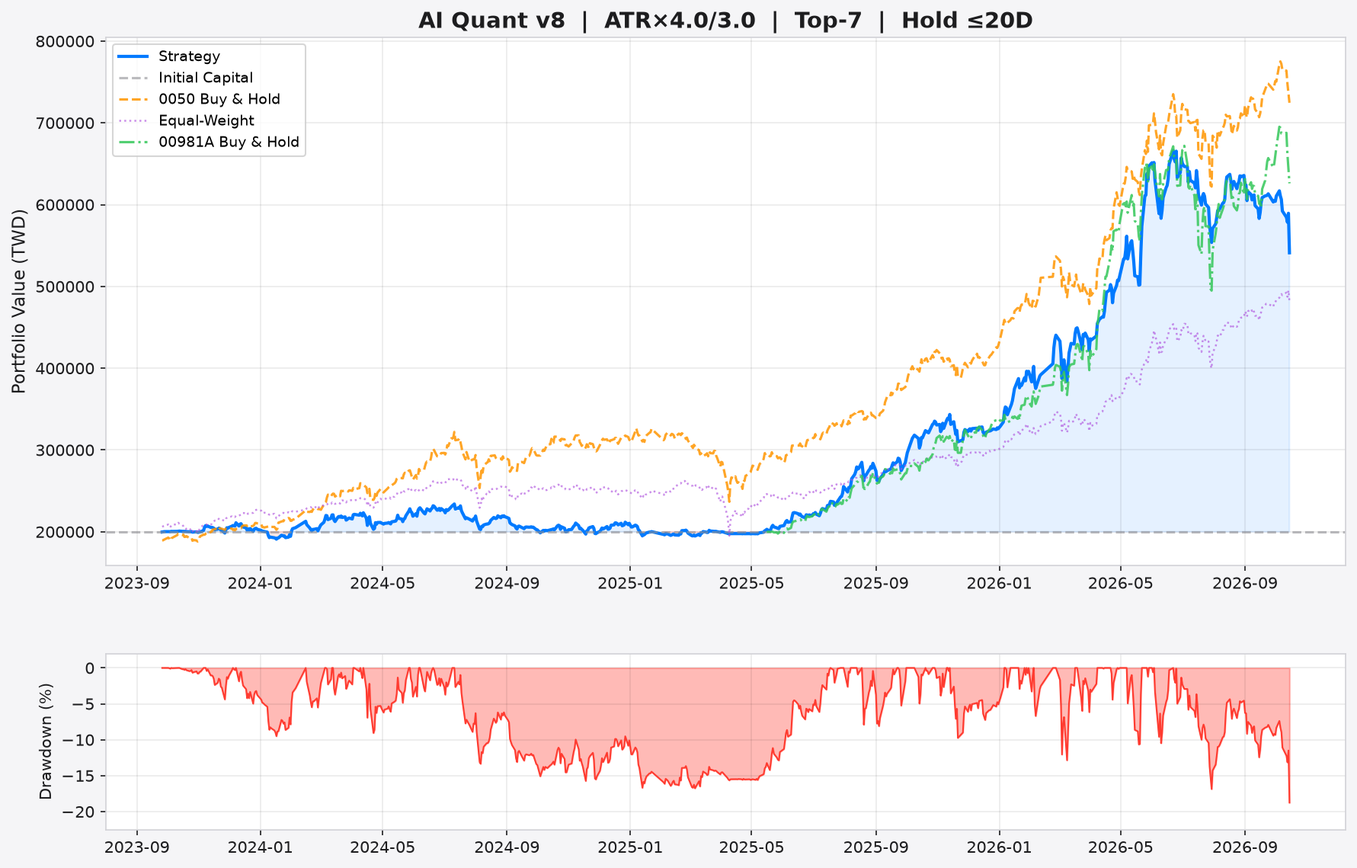
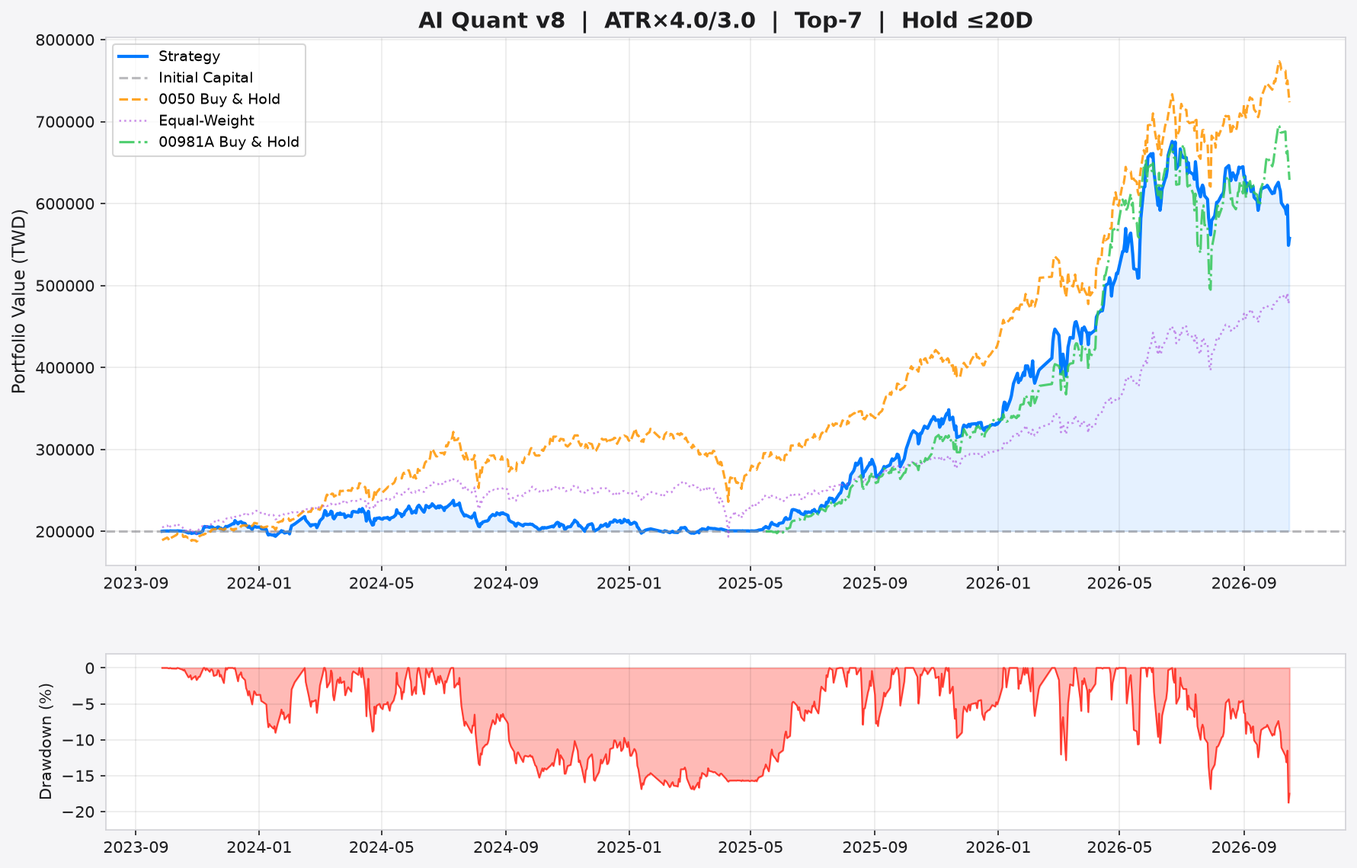
📊 AI Report v8.5 + Paper Trading (2026-10-16)

diff --git a/stock_report.html b/stock_report.html
@@ -3,7 +3,7 @@
 <head>
     <meta charset="utf-8">
     <meta name="viewport" content="width=device-width, initial-scale=1.0">
-    <title>AI 台股量化交易 v8.5 — 2026-10-15</title>
+    <title>AI 台股量化交易 v8.5 — 2026-10-16</title>
     <meta name="description" content="AI 驅動的台股量化交易系統 v8.5，完整風險報告、Benchmark 對比、OCO 智慧掛單建議">
     <script>
         (function() {
@@ -292,7 +292,7 @@
 
     <h1>🎯 AI 台股量化交易 v8.5</h1>
     <p class="subtitle">
-        Event-Driven System &nbsp;|&nbsp; 報表日期: 2026-10-15 &nbsp;|&nbsp;
+        Event-Driven System &nbsp;|&nbsp; 報表日期: 2026-10-16 &nbsp;|&nbsp;
         <span class="config-badge">🛡 ATR×4.0/3.0</span>
         <span class="config-badge">🎯 Top-7</span>
         <span class="config-badge">⏱ 最長 20 天</span>
@@ -303,23 +303,23 @@
     <div class="stats">
         <div class="stat-card">
             <div class="label">策略總報酬率</div>
-            <div class="value" style="color:#00ff00;">+170.6%</div>
+            <div class="value" style="color:#00ff00;">+178.7%</div>
         </div>
         <div class="stat-card">
             <div class="label">年化報酬率</div>
-            <div class="value" style="color:#00ff00;">+40.4%</div>
+            <div class="value" style="color:#00ff00;">+41.8%</div>
         </div>
         <div class="stat-card">
             <div class="label">年化波動率</div>
-            <div class="value">26.5%</div>
+            <div class="value">26.6%</div>
         </div>
         <div class="stat-card risk">
             <div class="label">Sharpe Ratio</div>
-            <div class="value" style="color:#00ff00;">1.42</div>
+            <div class="value" style="color:#00ff00;">1.45</div>
         </div>
         <div class="stat-card risk">
             <div class="label">Sortino Ratio</div>
-            <div class="value">2.00</div>
+            <div class="value">2.07</div>
         </div>
         <div class="stat-card risk">
             <div class="label">最大回撤</div>
@@ -327,23 +327,23 @@
         </div>
         <div class="stat-card risk">
             <div class="label">Calmar Ratio</div>
-            <div class="value">2.15</div>
+            <div class="value">2.23</div>
         </div>
         <div class="stat-card">
             <div class="label">完成交易數</div>
-            <div class="value">562</div>
+            <div class="value">565</div>
         </div>
         <div class="stat-card">
             <div class="label">勝率</div>
-            <div class="value" style="color:#00ff00;">53.6%</div>
+            <div class="value" style="color:#00ff00;">53.3%</div>
         </div>
         <div class="stat-card">
             <div class="label">Profit Factor</div>
-            <div class="value">1.56</div>
+            <div class="value">1.58</div>
         </div>
         <div class="stat-card">
             <div class="label">平均報酬/筆</div>
-            <div class="value">+2.50%</div>
+            <div class="value">+2.56%</div>
         </div>
         <div class="stat-card">
             <div class="label">平均持有天數</div>
@@ -370,23 +370,23 @@
             </tr>
         </thead>
         <tbody>
-<tr><td>6505</td><td>3.98</td><td>111.5</td><td><span style="color:#00ff00; font-weight:bold;">🟢 建議買進 #1</span></td><td><b>停利:</b> <span style="color:#00ff00">136.9</span> (+22.8%) <br><b>停損:</b> <span style="color:#ff4444">92.4</span> (-17.1%) <br><b>最晚出場:</b> 2026-11-13</td><td><span style="font-size:0.72rem; color:#888;">歷史 <b>4</b>筆 | 勝率 <b style="color:#ff4444">25%</b> | 均報酬 <b style="color:#ff4444">-3.4%</b></span></td><td><span style="font-size:0.78rem;">⚪ 無資料<br><span style="color:#888; font-weight:bold;">+0.0%</span></span></td><td><span style="font-size:0.78rem;">⚪ 中性</span></td></tr>
-<tr><td>1303</td><td>3.95</td><td>314.5</td><td><span style="color:#00ff00; font-weight:bold;">🟢 建議買進 #2</span></td><td><b>停利:</b> <span style="color:#00ff00">386.2</span> (+22.8%) <br><b>停損:</b> <span style="color:#ff4444">260.7</span> (-17.1%) <br><b>最晚出場:</b> 2026-11-13</td><td><span style="font-size:0.72rem; color:#888;">歷史 <b>13</b>筆 | 勝率 <b style="color:#00ff00">77%</b> | 均報酬 <b style="color:#00ff00">+8.0%</b></span></td><td><span style="font-size:0.78rem;">⚪ 無資料<br><span style="color:#888; font-weight:bold;">+0.0%</span></span></td><td><span style="font-size:0.78rem;">⚪ 中性</span></td></tr>
-<tr><td>1301</td><td>3.87</td><td>81.7</td><td><span style="color:#00ff00; font-weight:bold;">🟢 建議買進 #3</span></td><td><b>停利:</b> <span style="color:#00ff00">96.4</span> (+17.9%) <br><b>停損:</b> <span style="color:#ff4444">70.7</span> (-13.5%) <br><b>最晚出場:</b> 2026-11-13</td><td><span style="font-size:0.72rem; color:#888;">歷史 <b>2</b>筆 | 勝率 <b style="color:#ff4444">0%</b> | 均報酬 <b style="color:#ff4444">-10.5%</b></span></td><td><span style="font-size:0.78rem;">🟡 小買<br><span style="color:#ffab00; font-weight:bold;">+1.2%</span></span></td><td><span style="font-size:0.78rem;">⚪ 中性</span></td></tr>
-<tr><td>3443</td><td>3.75</td><td>7670.0</td><td><span style="color:#00ff00; font-weight:bold;">🟢 建議買進 #4</span></td><td><b>停利:</b> <span style="color:#00ff00">9567.0</span> (+24.7%) <br><b>停損:</b> <span style="color:#ff4444">6247.2</span> (-18.5%) <br><b>最晚出場:</b> 2026-11-13</td><td><span style="font-size:0.72rem; color:#888;">歷史 <b>10</b>筆 | 勝率 <b style="color:#00ff00">50%</b> | 均報酬 <b style="color:#00ff00">+0.8%</b></span></td><td><span style="font-size:0.78rem;">⚪ 無資料<br><span style="color:#888; font-weight:bold;">+0.0%</span></span></td><td><span style="font-size:0.78rem;">⚪ 中性</span></td></tr>
-<tr><td>3707O</td><td>3.75</td><td>77.0</td><td><span style="color:#00ff00; font-weight:bold;">🟢 建議買進 #5</span></td><td><b>停利:</b> <span style="color:#00ff00">96.6</span> (+25.5%) <br><b>停損:</b> <span style="color:#ff4444">62.3</span> (-19.1%) <br><b>最晚出場:</b> 2026-11-13</td><td><span style="font-size:0.72rem; color:#888;">歷史 <b>4</b>筆 | 勝率 <b style="color:#00ff00">50%</b> | 均報酬 <b style="color:#00ff00">+3.4%</b></span></td><td><span style="font-size:0.78rem;">⚪ 無資料<br><span style="color:#888; font-weight:bold;">+0.0%</span></span></td><td><span style="font-size:0.78rem;">⚪ 中性</span></td></tr>
-<tr><td>3044</td><td>3.63</td><td>586.0</td><td><span style="color:#00ff00; font-weight:bold;">🟢 建議買進 #6</span></td><td><b>停利:</b> <span style="color:#00ff00">669.6</span> (+14.3%) <br><b>停損:</b> <span style="color:#ff4444">523.3</span> (-10.7%) <br><b>最晚出場:</b> 2026-11-13</td><td><span style="font-size:0.72rem; color:#888;">歷史 <b>4</b>筆 | 勝率 <b style="color:#00ff00">75%</b> | 均報酬 <b style="color:#00ff00">+4.4%</b></span></td><td><span style="font-size:0.78rem;">🟡 小買<br><span style="color:#ffab00; font-weight:bold;">+0.7%</span></span></td><td><span style="font-size:0.78rem;">⚪ 中性</span></td></tr>
-<tr><td>2368</td><td>3.62</td><td>1190.0</td><td><span style="color:#00ff00; font-weight:bold;">🟢 建議買進 #7</span></td><td><b>停利:</b> <span style="color:#00ff00">1500.6</span> (+26.1%) <br><b>停損:</b> <span style="color:#ff4444">957.0</span> (-19.6%) <br><b>最晚出場:</b> 2026-11-13</td><td><span style="font-size:0.72rem; color:#888;">歷史 <b>12</b>筆 | 勝率 <b style="color:#00ff00">50%</b> | 均報酬 <b style="color:#00ff00">+2.4%</b></span></td><td><span style="font-size:0.78rem;">🟠 小賣<br><span style="color:#ffab00; font-weight:bold;">-1.8%</span></span></td><td><span style="font-size:0.78rem;">⚪ 中性</span></td></tr>
-<tr style="opacity:0.6"><td>1326</td><td>3.48</td><td>77.0</td><td><span style="color:#ffab00">🟡 候選 (超出 Top-K)</span></td><td>-</td><td><span style="font-size:0.72rem; color:#888;">勝率 <b style="color:#ff4444">0%</b></span></td><td><span style="font-size:0.72rem;">🟡 小買<br><span style="color:#888">+0.7%</span></span></td><td><span style="font-size:0.72rem;">⚪</span></td></tr>
-<tr style="opacity:0.6"><td>1101</td><td>3.18</td><td>26.8</td><td><span style="color:#ffab00">🟡 候選 (超出 Top-K)</span></td><td>-</td><td><span style="font-size:0.72rem; color:#555;">-</span></td><td><span style="font-size:0.72rem;">⚪ 無資料<br><span style="color:#888">+0.0%</span></span></td><td><span style="font-size:0.72rem;">⚪</span></td></tr>
-<tr style="opacity:0.6"><td>6415</td><td>3.18</td><td>466.5</td><td><span style="color:#ffab00">🟡 候選 (超出 Top-K)</span></td><td>-</td><td><span style="font-size:0.72rem; color:#888;">勝率 <b style="color:#ff4444">45%</b></span></td><td><span style="font-size:0.72rem;">⚪ 無資料<br><span style="color:#888">+0.0%</span></span></td><td><span style="font-size:0.72rem;">⚪</span></td></tr>
-<tr style="opacity:0.6"><td>3533</td><td>3.15</td><td>1815.0</td><td><span style="color:#ffab00">🟡 候選 (超出 Top-K)</span></td><td>-</td><td><span style="font-size:0.72rem; color:#888;">勝率 <b style="color:#00ff00">50%</b></span></td><td><span style="font-size:0.72rem;">⚪ 無資料<br><span style="color:#888">+0.0%</span></span></td><td><span style="font-size:0.72rem;">⚪</span></td></tr>
-<tr style="opacity:0.6"><td>4938</td><td>3.02</td><td>98.1</td><td><span style="color:#ffab00">🟡 候選 (超出 Top-K)</span></td><td>-</td><td><span style="font-size:0.72rem; color:#555;">-</span></td><td><span style="font-size:0.72rem;">🟡 小買<br><span style="color:#888">+0.7%</span></span></td><td><span style="font-size:0.72rem;">⚪</span></td></tr>
-<tr style="opacity:0.4"><td>2404</td><td>2.63</td><td>1105.0</td><td><span style="color:#aaaaaa">⚪ 觀望 (低於 MA)</span></td><td>-</td><td>-</td><td style="color:#555">-</td><td style="color:#555">-</td></tr>
-<tr style="opacity:0.4"><td>2327</td><td>2.15</td><td>573.0</td><td><span style="color:#aaaaaa">⚪ 觀望 (低於 MA)</span></td><td>-</td><td>-</td><td style="color:#555">-</td><td style="color:#555">-</td></tr>
-<tr style="opacity:0.4"><td>2330</td><td>1.90</td><td>2440.0</td><td><span style="color:#aaaaaa">⚪ 觀望 (評分不足)</span></td><td>-</td><td>-</td><td style="color:#555">-</td><td style="color:#555">-</td></tr>
-<tr style="opacity:0.4"><td>3034</td><td>1.85</td><td>565.0</td><td><span style="color:#aaaaaa">⚪ 觀望 (評分不足)</span></td><td>-</td><td>-</td><td style="color:#555">-</td><td style="color:#555">-</td></tr>
-<tr style="opacity:0.4"><td>3661</td><td>1.83</td><td>3705.0</td><td><span style="color:#aaaaaa">⚪ 觀望 (評分不足)</span></td><td>-</td><td>-</td><td style="color:#555">-</td><td style="color:#555">-</td></tr>
+<tr><td>6505</td><td>4.00</td><td>122.5</td><td><span style="color:#00ff00; font-weight:bold;">🟢 建議買進 #1</span></td><td><b>停利:</b> <span style="color:#00ff00">149.5</span> (+22.0%) <br><b>停損:</b> <span style="color:#ff4444">102.3</span> (-16.5%) <br><b>最晚出場:</b> 2026-11-16</td><td><span style="font-size:0.72rem; color:#888;">歷史 <b>4</b>筆 | 勝率 <b style="color:#ff4444">25%</b> | 均報酬 <b style="color:#ff4444">-3.4%</b></span></td><td><span style="font-size:0.78rem;">⚪ 無資料<br><span style="color:#888; font-weight:bold;">+0.0%</span></span></td><td><span style="font-size:0.78rem;">⚪ 中性</span></td></tr>
+<tr><td>1303</td><td>3.93</td><td>307.0</td><td><span style="color:#00ff00; font-weight:bold;">🟢 建議買進 #2</span></td><td><b>停利:</b> <span style="color:#00ff00">379.0</span> (+23.5%) <br><b>停損:</b> <span style="color:#ff4444">253.0</span> (-17.6%) <br><b>最晚出場:</b> 2026-11-16</td><td><span style="font-size:0.72rem; color:#888;">歷史 <b>13</b>筆 | 勝率 <b style="color:#00ff00">77%</b> | 均報酬 <b style="color:#00ff00">+8.0%</b></span></td><td><span style="font-size:0.78rem;">⚪ 無資料<br><span style="color:#888; font-weight:bold;">+0.0%</span></span></td><td><span style="font-size:0.78rem;">⚪ 中性</span></td></tr>
+<tr><td>1301</td><td>3.87</td><td>82.1</td><td><span style="color:#00ff00; font-weight:bold;">🟢 建議買進 #3</span></td><td><b>停利:</b> <span style="color:#00ff00">97.2</span> (+18.4%) <br><b>停損:</b> <span style="color:#ff4444">70.8</span> (-13.8%) <br><b>最晚出場:</b> 2026-11-16</td><td><span style="font-size:0.72rem; color:#888;">歷史 <b>2</b>筆 | 勝率 <b style="color:#ff4444">0%</b> | 均報酬 <b style="color:#ff4444">-10.5%</b></span></td><td><span style="font-size:0.78rem;">🟡 小買<br><span style="color:#ffab00; font-weight:bold;">+1.2%</span></span></td><td><span style="font-size:0.78rem;">⚪ 中性</span></td></tr>
+<tr><td>2368</td><td>3.72</td><td>1245.0</td><td><span style="color:#00ff00; font-weight:bold;">🟢 建議買進 #4</span></td><td><b>停利:</b> <span style="color:#00ff00">1566.8</span> (+25.8%) <br><b>停損:</b> <span style="color:#ff4444">1003.6</span> (-19.4%) <br><b>最晚出場:</b> 2026-11-16</td><td><span style="font-size:0.72rem; color:#888;">歷史 <b>13</b>筆 | 勝率 <b style="color:#ff4444">46%</b> | 均報酬 <b style="color:#00ff00">+0.7%</b></span></td><td><span style="font-size:0.78rem;">🟠 小賣<br><span style="color:#ffab00; font-weight:bold;">-1.8%</span></span></td><td><span style="font-size:0.78rem;">⚪ 中性</span></td></tr>
+<tr><td>3707O</td><td>3.72</td><td>77.6</td><td><span style="color:#00ff00; font-weight:bold;">🟢 建議買進 #5</span></td><td><b>停利:</b> <span style="color:#00ff00">97.1</span> (+25.1%) <br><b>停損:</b> <span style="color:#ff4444">63.0</span> (-18.8%) <br><b>最晚出場:</b> 2026-11-16</td><td><span style="font-size:0.72rem; color:#888;">歷史 <b>4</b>筆 | 勝率 <b style="color:#00ff00">50%</b> | 均報酬 <b style="color:#00ff00">+3.4%</b></span></td><td><span style="font-size:0.78rem;">⚪ 無資料<br><span style="color:#888; font-weight:bold;">+0.0%</span></span></td><td><span style="font-size:0.78rem;">⚪ 中性</span></td></tr>
+<tr><td>3443</td><td>3.70</td><td>7480.0</td><td><span style="color:#00ff00; font-weight:bold;">🟢 建議買進 #6</span></td><td><b>停利:</b> <span style="color:#00ff00">9434.0</span> (+26.1%) <br><b>停損:</b> <span style="color:#ff4444">6014.5</span> (-19.6%) <br><b>最晚出場:</b> 2026-11-16</td><td><span style="font-size:0.72rem; color:#888;">歷史 <b>10</b>筆 | 勝率 <b style="color:#00ff00">50%</b> | 均報酬 <b style="color:#00ff00">+1.2%</b></span></td><td><span style="font-size:0.78rem;">⚪ 無資料<br><span style="color:#888; font-weight:bold;">+0.0%</span></span></td><td><span style="font-size:0.78rem;">⚪ 中性</span></td></tr>
+<tr><td>1326</td><td>3.55</td><td>78.7</td><td><span style="color:#00ff00; font-weight:bold;">🟢 建議買進 #7</span></td><td><b>停利:</b> <span style="color:#00ff00">93.4</span> (+18.7%) <br><b>停損:</b> <span style="color:#ff4444">67.7</span> (-14.0%) <br><b>最晚出場:</b> 2026-11-16</td><td><span style="font-size:0.72rem; color:#888;">歷史 <b>5</b>筆 | 勝率 <b style="color:#ff4444">0%</b> | 均報酬 <b style="color:#ff4444">-8.8%</b></span></td><td><span style="font-size:0.78rem;">🟡 小買<br><span style="color:#ffab00; font-weight:bold;">+0.7%</span></span></td><td><span style="font-size:0.78rem;">⚪ 中性</span></td></tr>
+<tr style="opacity:0.6"><td>3044</td><td>3.53</td><td>584.0</td><td><span style="color:#ffab00">🟡 候選 (超出 Top-K)</span></td><td>-</td><td><span style="font-size:0.72rem; color:#888;">勝率 <b style="color:#00ff00">60%</b></span></td><td><span style="font-size:0.72rem;">🟡 小買<br><span style="color:#888">+0.7%</span></span></td><td><span style="font-size:0.72rem;">⚪</span></td></tr>
+<tr style="opacity:0.6"><td>6415</td><td>3.45</td><td>489.0</td><td><span style="color:#ffab00">🟡 候選 (超出 Top-K)</span></td><td>-</td><td><span style="font-size:0.72rem; color:#888;">勝率 <b style="color:#ff4444">40%</b></span></td><td><span style="font-size:0.72rem;">⚪ 無資料<br><span style="color:#888">+0.0%</span></span></td><td><span style="font-size:0.72rem;">⚪</span></td></tr>
+<tr style="opacity:0.6"><td>4938</td><td>3.28</td><td>102.0</td><td><span style="color:#ffab00">🟡 候選 (超出 Top-K)</span></td><td>-</td><td><span style="font-size:0.72rem; color:#555;">-</span></td><td><span style="font-size:0.72rem;">🟡 小買<br><span style="color:#888">+0.7%</span></span></td><td><span style="font-size:0.72rem;">⚪</span></td></tr>
+<tr style="opacity:0.6"><td>1101</td><td>3.13</td><td>27.3</td><td><span style="color:#ffab00">🟡 候選 (超出 Top-K)</span></td><td>-</td><td><span style="font-size:0.72rem; color:#555;">-</span></td><td><span style="font-size:0.72rem;">⚪ 無資料<br><span style="color:#888">+0.0%</span></span></td><td><span style="font-size:0.72rem;">⚪</span></td></tr>
+<tr style="opacity:0.6"><td>2603</td><td>3.13</td><td>265.5</td><td><span style="color:#ffab00">🟡 候選 (超出 Top-K)</span></td><td>-</td><td><span style="font-size:0.72rem; color:#888;">勝率 <b style="color:#ff4444">27%</b></span></td><td><span style="font-size:0.72rem;">🟡 小買<br><span style="color:#888">+1.6%</span></span></td><td><span style="font-size:0.72rem;">⚪</span></td></tr>
+<tr style="opacity:0.4"><td>3661</td><td>2.35</td><td>3685.0</td><td><span style="color:#aaaaaa">⚪ 觀望 (低於 MA)</span></td><td>-</td><td>-</td><td style="color:#555">-</td><td style="color:#555">-</td></tr>
+<tr style="opacity:0.4"><td>2404</td><td>2.13</td><td>1110.0</td><td><span style="color:#aaaaaa">⚪ 觀望 (低於 MA)</span></td><td>-</td><td>-</td><td style="color:#555">-</td><td style="color:#555">-</td></tr>
+<tr style="opacity:0.4"><td>2345</td><td>2.00</td><td>1980.0</td><td><span style="color:#aaaaaa">⚪ 觀望 (低於 MA)</span></td><td>-</td><td>-</td><td style="color:#555">-</td><td style="color:#555">-</td></tr>
+<tr style="opacity:0.4"><td>2886</td><td>1.90</td><td>53.7</td><td><span style="color:#aaaaaa">⚪ 觀望 (評分不足)</span></td><td>-</td><td>-</td><td style="color:#555">-</td><td style="color:#555">-</td></tr>
+<tr style="opacity:0.4"><td>2883</td><td>1.77</td><td>39.1</td><td><span style="color:#aaaaaa">⚪ 觀望 (評分不足)</span></td><td>-</td><td>-</td><td style="color:#555">-</td><td style="color:#555">-</td></tr>
 
         </tbody>
     </table>
@@ -461,7 +461,7 @@
     <div class="stats">
         <div class="stat-card benchmark">
             <div class="label">0050 年化報酬</div>
-            <div class="value">+50.1%</div>
+            <div class="value">+50.0%</div>
         </div>
         <div class="stat-card benchmark">
             <div class="label">0050 最大回撤</div>
@@ -473,14 +473,14 @@
         </div>
         <div class="stat-card" style="border-left-color:#ff4444">
             <div class="label">超額年化報酬 (α)</div>
-            <div class="value" style="color:#ff4444">-9.7%</div>
+            <div class="value" style="color:#ff4444">-8.2%</div>
         </div>
     </div>
 
     <div class="stats">
         <div class="stat-card benchmark">
             <div class="label">00981A 年化報酬</div>
-            <div class="value">+129.6%</div>
+            <div class="value">+129.8%</div>
         </div>
         <div class="stat-card benchmark">
             <div class="label">00981A 最大回撤</div>
@@ -488,11 +488,11 @@
         </div>
         <div class="stat-card benchmark">
             <div class="label">00981A Sharpe</div>
-            <div class="value">2.52</div>
+            <div class="value">2.53</div>
         </div>
         <div class="stat-card" style="border-left-color:#ff4444">
             <div class="label">超額 vs 00981A (共存期)</div>
-            <div class="value" style="color:#ff4444">-46.5%</div>
+            <div class="value" style="color:#ff4444">-43.8%</div>
         </div>
     </div>
     <img src="backtest_chart.png" alt="AI Quantitative Backtest Equity Curve with Benchmark">
@@ -507,19 +507,19 @@
         </div>
         <div class="stat-card benchmark">
             <div class="label">0050 近 5 日</div>
-            <div class="value" style="color:#ff4444">-6.2%</div>
+            <div class="value" style="color:#ff4444">-5.2%</div>
         </div>
         <div class="stat-card benchmark">
             <div class="label">0050 近 20 日</div>
-            <div class="value" style="color:#00ff00">+1.9%</div>
+            <div class="value" style="color:#00ff00">+2.6%</div>
         </div>
         <div class="stat-card benchmark">
             <div class="label">0050 近 60 日</div>
-            <div class="value" style="color:#00ff00">+10.4%</div>
+            <div class="value" style="color:#00ff00">+6.3%</div>
         </div>
         <div class="stat-card risk">
             <div class="label">市場波動率 (20D)</div>
-            <div class="value">20.8%</div>
+            <div class="value">21.6%</div>
         </div>
     </div>
 
@@ -529,22 +529,22 @@
     <div class="stats">
         <div class="stat-card risk">
             <div class="label">目前回撤</div>
-            <div class="value" style="color:#ff4444">-18.8%</div>
+            <div class="value" style="color:#ff4444">-17.5%</div>
         </div>
         <div class="stat-card">
             <div class="label">權益最高點</div>
-            <div class="value">666,065</div>
+            <div class="value">675,753</div>
         </div>
         <div class="stat-card">
             <div class="label">歷史回撤次數</div>
-            <div class="value">31</div>
+            <div class="value">34</div>
         </div>
     </div>
     <table>
         <thead><tr><th>#</th><th>開始日</th><th>恢復日</th><th>最大深度</th><th>持續天數</th></tr></thead>
         <tbody>
-<tr><td>#1</td><td>2026-06-26</td><td>2026-10-15</td><td style="color:#ff4444; font-weight:bold">-18.8%</td><td>111 天</td></tr>
-<tr><td>#2</td><td>2024-07-12</td><td>2025-07-17</td><td style="color:#ff4444; font-weight:bold">-16.8%</td><td>370 天</td></tr>
+<tr><td>#1</td><td>2026-06-26</td><td>2026-10-16</td><td style="color:#ff4444; font-weight:bold">-18.8%</td><td>112 天</td></tr>
+<tr><td>#2</td><td>2024-07-12</td><td>2025-07-17</td><td style="color:#ff4444; font-weight:bold">-16.9%</td><td>370 天</td></tr>
 <tr><td>#3</td><td>2026-03-02</td><td>2026-03-17</td><td style="color:#ff4444; font-weight:bold">-12.9%</td><td>15 天</td></tr>
 <tr><td>#4</td><td>2026-05-08</td><td>2026-05-22</td><td style="color:#ff4444; font-weight:bold">-10.7%</td><td>14 天</td></tr>
 <tr><td>#5</td><td>2026-06-04</td><td>2026-06-18</td><td style="color:#ff4444; font-weight:bold">-10.5%</td><td>14 天</td></tr>
@@ -558,15 +558,15 @@
     <div class="stats">
         <div class="stat-card" style="border-left-color:#ff4444">
             <div class="label">近 60 日 Sharpe</div>
-            <div class="value" style="color:#ff4444">-1.40</div>
+            <div class="value" style="color:#ff4444">-1.44</div>
         </div>
         <div class="stat-card">
             <div class="label">歷史平均 Sharpe</div>
-            <div class="value">1.46</div>
+            <div class="value">1.48</div>
         </div>
         <div class="stat-card risk">
             <div class="label">歷史最低 Sharpe</div>
-            <div class="value">-2.99</div>
+            <div class="value">-3.09</div>
         </div>
         <div class="stat-card">
             <div class="label">歷史最高 Sharpe</div>
@@ -588,7 +588,7 @@
         </div>
         <div class="stat-card">
             <div class="label">近 5 筆走勢</div>
-            <div class="value" style="font-size:1.2rem">🟢 🟢 🔴 🔴 🔴 </div>
+            <div class="value" style="font-size:1.2rem">🟢 🔴 🔴 🔴 🔴 </div>
         </div>
     </div>
 
@@ -596,9 +596,9 @@
     <table>
         <thead><tr><th>出場原因</th><th>次數</th><th>平均報酬</th></tr></thead>
         <tbody>
-<tr><td>🟢 停利</td><td>209 筆</td><td style="color:#00ff00">+16.35%</td></tr>
-<tr><td>⚪ 時間到期</td><td>209 筆</td><td style="color:#ff4444">-0.73%</td></tr>
-<tr><td>🔴 停損</td><td>144 筆</td><td style="color:#ff4444">-12.91%</td></tr>
+<tr><td>🟢 停利</td><td>213 筆</td><td style="color:#00ff00">+16.33%</td></tr>
+<tr><td>⚪ 時間到期</td><td>207 筆</td><td style="color:#ff4444">-0.86%</td></tr>
+<tr><td>🔴 停損</td><td>145 筆</td><td style="color:#ff4444">-12.79%</td></tr>
 
         </tbody>
     </table>
@@ -608,14 +608,14 @@
 
     <table>
         <thead><tr><th>報酬區間</th><th>筆數</th><th>佔比</th><th>分布</th></tr></thead>
-        <tbody><tr><td>< -15%</td><td>35</td><td>6.2%</td><td><div style="background:#ff4444; width:18.683274021352315%; height:14px; border-radius:3px; opacity:0.6"></div></td></tr>
-<tr><td>-15~-10%</td><td>88</td><td>15.7%</td><td><div style="background:#ff4444; width:46.97508896797153%; height:14px; border-radius:3px; opacity:0.6"></div></td></tr>
-<tr><td>-10~-5%</td><td>75</td><td>13.3%</td><td><div style="background:#ff4444; width:40.0355871886121%; height:14px; border-radius:3px; opacity:0.6"></div></td></tr>
-<tr><td>-5~0%</td><td>63</td><td>11.2%</td><td><div style="background:#ff4444; width:33.629893238434164%; height:14px; border-radius:3px; opacity:0.6"></div></td></tr>
-<tr><td>0~5%</td><td>56</td><td>10.0%</td><td><div style="background:#00ff00; width:29.8932384341637%; height:14px; border-radius:3px; opacity:0.6"></div></td></tr>
-<tr><td>5~10%</td><td>39</td><td>6.9%</td><td><div style="background:#00ff00; width:20.81850533807829%; height:14px; border-radius:3px; opacity:0.6"></div></td></tr>
-<tr><td>10~20%</td><td>157</td><td>27.9%</td><td><div style="background:#00ff00; width:83.80782918149465%; height:14px; border-radius:3px; opacity:0.6"></div></td></tr>
-<tr><td>> 20%</td><td>49</td><td>8.7%</td><td><div style="background:#00ff00; width:26.156583629893237%; height:14px; border-radius:3px; opacity:0.6"></div></td></tr>
+        <tbody><tr><td>< -15%</td><td>34</td><td>6.0%</td><td><div style="background:#ff4444; width:18.05309734513274%; height:14px; border-radius:3px; opacity:0.6"></div></td></tr>
+<tr><td>-15~-10%</td><td>87</td><td>15.4%</td><td><div style="background:#ff4444; width:46.19469026548673%; height:14px; border-radius:3px; opacity:0.6"></div></td></tr>
+<tr><td>-10~-5%</td><td>83</td><td>14.7%</td><td><div style="background:#ff4444; width:44.07079646017699%; height:14px; border-radius:3px; opacity:0.6"></div></td></tr>
+<tr><td>-5~0%</td><td>60</td><td>10.6%</td><td><div style="background:#ff4444; width:31.85840707964602%; height:14px; border-radius:3px; opacity:0.6"></div></td></tr>
+<tr><td>0~5%</td><td>51</td><td>9.0%</td><td><div style="background:#00ff00; width:27.07964601769912%; height:14px; border-radius:3px; opacity:0.6"></div></td></tr>
+<tr><td>5~10%</td><td>41</td><td>7.3%</td><td><div style="background:#00ff00; width:21.769911504424776%; height:14px; border-radius:3px; opacity:0.6"></div></td></tr>
+<tr><td>10~20%</td><td>159</td><td>28.1%</td><td><div style="background:#00ff00; width:84.42477876106193%; height:14px; border-radius:3px; opacity:0.6"></div></td></tr>
+<tr><td>> 20%</td><td>50</td><td>8.8%</td><td><div style="background:#00ff00; width:26.54867256637168%; height:14px; border-radius:3px; opacity:0.6"></div></td></tr>
 </tbody>
     </table>
 
@@ -625,26 +625,26 @@
     <h3 style="color:#00e5ff; margin-top:16px">🏆 Top 10 貢獻股</h3>
     <table>
         <thead><tr><th>股票</th><th>交易數</th><th>勝率</th><th>平均報酬</th><th>總貢獻</th></tr></thead>
-        <tbody><tr><td><b>3017</b></td><td>18</td><td style="color:#00ff00">83%</td><td style="color:#00ff00">+9.4%</td><td style="color:#00ff00; font-weight:bold">+169.7%</td></tr>
-<tr><td><b>2383</b></td><td>14</td><td style="color:#00ff00">79%</td><td style="color:#00ff00">+12.0%</td><td style="color:#00ff00; font-weight:bold">+168.1%</td></tr>
+        <tbody><tr><td><b>2383</b></td><td>15</td><td style="color:#00ff00">80%</td><td style="color:#00ff00">+12.2%</td><td style="color:#00ff00; font-weight:bold">+182.2%</td></tr>
 <tr><td><b>2344</b></td><td>14</td><td style="color:#00ff00">79%</td><td style="color:#00ff00">+11.1%</td><td style="color:#00ff00; font-weight:bold">+155.0%</td></tr>
+<tr><td><b>3017</b></td><td>17</td><td style="color:#00ff00">82%</td><td style="color:#00ff00">+9.0%</td><td style="color:#00ff00; font-weight:bold">+153.7%</td></tr>
 <tr><td><b>2408</b></td><td>17</td><td style="color:#00ff00">71%</td><td style="color:#00ff00">+7.9%</td><td style="color:#00ff00; font-weight:bold">+134.0%</td></tr>
 <tr><td><b>6770</b></td><td>10</td><td style="color:#00ff00">80%</td><td style="color:#00ff00">+10.7%</td><td style="color:#00ff00; font-weight:bold">+106.5%</td></tr>
 <tr><td><b>1303</b></td><td>13</td><td style="color:#00ff00">77%</td><td style="color:#00ff00">+8.0%</td><td style="color:#00ff00; font-weight:bold">+104.1%</td></tr>
-<tr><td><b>3036</b></td><td>11</td><td style="color:#00ff00">73%</td><td style="color:#00ff00">+8.6%</td><td style="color:#00ff00; font-weight:bold">+94.6%</td></tr>
 <tr><td><b>2327</b></td><td>11</td><td style="color:#00ff00">73%</td><td style="color:#00ff00">+7.9%</td><td style="color:#00ff00; font-weight:bold">+87.3%</td></tr>
-<tr><td><b>3037</b></td><td>12</td><td style="color:#00ff00">58%</td><td style="color:#00ff00">+5.9%</td><td style="color:#00ff00; font-weight:bold">+70.3%</td></tr>
-<tr><td><b>2360</b></td><td>9</td><td style="color:#00ff00">67%</td><td style="color:#00ff00">+7.5%</td><td style="color:#00ff00; font-weight:bold">+67.1%</td></tr>
+<tr><td><b>3036</b></td><td>10</td><td style="color:#00ff00">70%</td><td style="color:#00ff00">+7.9%</td><td style="color:#00ff00; font-weight:bold">+79.1%</td></tr>
+<tr><td><b>1519</b></td><td>15</td><td style="color:#00ff00">53%</td><td style="color:#00ff00">+4.5%</td><td style="color:#00ff00; font-weight:bold">+67.8%</td></tr>
+<tr><td><b>5274O</b></td><td>15</td><td style="color:#00ff00">67%</td><td style="color:#00ff00">+4.4%</td><td style="color:#00ff00; font-weight:bold">+65.4%</td></tr>
 </tbody>
     </table>
     <h3 style="color:#ff4444; margin-top:16px">📉 Bottom 5 虧損股</h3>
     <table>
         <thead><tr><th>股票</th><th>交易數</th><th>勝率</th><th>平均報酬</th><th>總貢獻</th></tr></thead>
         <tbody><tr style="opacity:0.7"><td><b>2634</b></td><td>6</td><td style="color:#ff4444">33%</td><td style="color:#ff4444">-5.1%</td><td style="color:#ff4444; font-weight:bold">-30.9%</td></tr>
-<tr style="opacity:0.7"><td><b>2382</b></td><td>3</td><td style="color:#ff4444">0%</td><td style="color:#ff4444">-10.5%</td><td style="color:#ff4444; font-weight:bold">-31.4%</td></tr>
-<tr style="opacity:0.7"><td><b>1326</b></td><td>4</td><td style="color:#ff4444">0%</td><td style="color:#ff4444">-7.9%</td><td style="color:#ff4444; font-weight:bold">-31.7%</td></tr>
+<tr style="opacity:0.7"><td><b>2382</b></td><td>3</td><td style="color:#ff4444">0%</td><td style="color:#ff4444">-10.5%</td><td style="color:#ff4444; font-weight:bold">-31.6%</td></tr>
 <tr style="opacity:0.7"><td><b>2605</b></td><td>3</td><td style="color:#ff4444">0%</td><td style="color:#ff4444">-10.7%</td><td style="color:#ff4444; font-weight:bold">-32.1%</td></tr>
-<tr style="opacity:0.7"><td><b>2603</b></td><td>11</td><td style="color:#ff4444">18%</td><td style="color:#ff4444">-5.4%</td><td style="color:#ff4444; font-weight:bold">-59.2%</td></tr>
+<tr style="opacity:0.7"><td><b>2603</b></td><td>11</td><td style="color:#ff4444">27%</td><td style="color:#ff4444">-3.3%</td><td style="color:#ff4444; font-weight:bold">-35.9%</td></tr>
+<tr style="opacity:0.7"><td><b>1326</b></td><td>5</td><td style="color:#ff4444">0%</td><td style="color:#ff4444">-8.8%</td><td style="color:#ff4444; font-weight:bold">-44.2%</td></tr>
 </tbody>
     </table>
 
@@ -658,6 +658,7 @@
             </tr>
         </thead>
         <tbody>
+<tr><td>1326</td><td>2026-10-15</td><td>2026-10-16</td><td>85.7</td><td>75.5</td><td>🔴 停損</td><td>1天</td><td style="color:#ff4444; font-weight:bold;">-12.5%</td></tr>
 <tr><td>2404</td><td>2026-10-01</td><td>2026-10-15</td><td>1281.3</td><td>1111.3</td><td>🔴 停損</td><td>9天</td><td style="color:#ff4444; font-weight:bold;">-13.9%</td></tr>
 <tr><td>2303</td><td>2026-09-24</td><td>2026-10-15</td><td>157.2</td><td>134.5</td><td>🔴 停損</td><td>12天</td><td style="color:#ff4444; font-weight:bold;">-15.0%</td></tr>
 <tr><td>2454</td><td>2026-09-24</td><td>2026-10-15</td><td>5110.1</td><td>4195.0</td><td>🔴 停損</td><td>12天</td><td style="color:#ff4444; font-weight:bold;">-18.5%</td></tr>
@@ -677,7 +678,6 @@
 <tr><td>2408</td><td>2026-08-06</td><td>2026-09-03</td><td>441.4</td><td>477.5</td><td>⚪ 時間到期</td><td>20天</td><td style="color:#00ff00; font-weight:bold;">+7.4%</td></tr>
 <tr><td>3231</td><td>2026-08-05</td><td>2026-09-02</td><td>198.2</td><td>185.5</td><td>⚪ 時間到期</td><td>20天</td><td style="color:#ff4444; font-weight:bold;">-7.0%</td></tr>
 <tr><td>3037</td><td>2026-08-20</td><td>2026-09-01</td><td>1166.2</td><td>921.0</td><td>🔴 停損</td><td>8天</td><td style="color:#ff4444; font-weight:bold;">-21.6%</td></tr>
-<tr><td>2301</td><td>2026-08-05</td><td>2026-08-28</td><td>257.9</td><td>320.9</td><td>🟢 停利</td><td>17天</td><td style="color:#00ff00; font-weight:bold;">+23.6%</td></tr>
 
         </tbody>
     </table>
@@ -687,16 +687,16 @@
     <table style="max-width:400px">
         <thead><tr><th>月份</th><th>月報酬</th></tr></thead>
         <tbody>
-<tr style="background:rgba(255,68,68,0.01)"><td>2023-10</td><td style="color:#ff4444; font-weight:bold">-0.4%</td></tr>
-<tr style="background:rgba(0,255,0,0.08)"><td>2023-11</td><td style="color:#00ff00; font-weight:bold">+2.6%</td></tr>
-<tr style="background:rgba(255,68,68,0.02)"><td>2023-12</td><td style="color:#ff4444; font-weight:bold">-0.6%</td></tr>
-<tr style="background:rgba(255,68,68,0.13)"><td>2024-01</td><td style="color:#ff4444; font-weight:bold">-4.3%</td></tr>
-<tr style="background:rgba(0,255,0,0.18)"><td>2024-02</td><td style="color:#00ff00; font-weight:bold">+6.1%</td></tr>
-<tr style="background:rgba(0,255,0,0.15)"><td>2024-03</td><td style="color:#00ff00; font-weight:bold">+5.1%</td></tr>
-<tr style="background:rgba(255,68,68,0.09)"><td>2024-04</td><td style="color:#ff4444; font-weight:bold">-2.9%</td></tr>
-<tr style="background:rgba(0,255,0,0.12)"><td>2024-05</td><td style="color:#00ff00; font-weight:bold">+4.0%</td></tr>
-<tr style="background:rgba(0,255,0,0.13)"><td>2024-06</td><td style="color:#00ff00; font-weight:bold">+4.3%</td></tr>
-<tr style="background:rgba(255,68,68,0.17)"><td>2024-07</td><td style="color:#ff4444; font-weight:bold">-5.5%</td></tr>
+<tr style="background:rgba(255,68,68,0.04)"><td>2023-10</td><td style="color:#ff4444; font-weight:bold">-1.5%</td></tr>
+<tr style="background:rgba(0,255,0,0.13)"><td>2023-11</td><td style="color:#00ff00; font-weight:bold">+4.2%</td></tr>
+<tr style="background:rgba(255,68,68,0.01)"><td>2023-12</td><td style="color:#ff4444; font-weight:bold">-0.2%</td></tr>
+<tr style="background:rgba(255,68,68,0.12)"><td>2024-01</td><td style="color:#ff4444; font-weight:bold">-4.0%</td></tr>
+<tr style="background:rgba(0,255,0,0.19)"><td>2024-02</td><td style="color:#00ff00; font-weight:bold">+6.5%</td></tr>
+<tr style="background:rgba(0,255,0,0.14)"><td>2024-03</td><td style="color:#00ff00; font-weight:bold">+4.7%</td></tr>
+<tr style="background:rgba(255,68,68,0.05)"><td>2024-04</td><td style="color:#ff4444; font-weight:bold">-1.8%</td></tr>
+<tr style="background:rgba(0,255,0,0.09)"><td>2024-05</td><td style="color:#00ff00; font-weight:bold">+3.1%</td></tr>
+<tr style="background:rgba(0,255,0,0.12)"><td>2024-06</td><td style="color:#00ff00; font-weight:bold">+4.1%</td></tr>
+<tr style="background:rgba(255,68,68,0.16)"><td>2024-07</td><td style="color:#ff4444; font-weight:bold">-5.4%</td></tr>
 <tr style="background:rgba(0,255,0,0.04)"><td>2024-08</td><td style="color:#00ff00; font-weight:bold">+1.3%</td></tr>
 <tr style="background:rgba(255,68,68,0.22)"><td>2024-09</td><td style="color:#ff4444; font-weight:bold">-7.2%</td></tr>
 <tr style="background:rgba(255,68,68,0.04)"><td>2024-10</td><td style="color:#ff4444; font-weight:bold">-1.3%</td></tr>
@@ -723,7 +723,7 @@
 <tr style="background:rgba(255,68,68,0.30)"><td>2026-07</td><td style="color:#ff4444; font-weight:bold">-13.1%</td></tr>
 <tr style="background:rgba(0,255,0,0.30)"><td>2026-08</td><td style="color:#00ff00; font-weight:bold">+11.3%</td></tr>
 <tr style="background:rgba(255,68,68,0.15)"><td>2026-09</td><td style="color:#ff4444; font-weight:bold">-4.8%</td></tr>
-<tr style="background:rgba(255,68,68,0.30)"><td>2026-10</td><td style="color:#ff4444; font-weight:bold">-10.5%</td></tr>
+<tr style="background:rgba(255,68,68,0.27)"><td>2026-10</td><td style="color:#ff4444; font-weight:bold">-9.2%</td></tr>
 
         </tbody>
     </table>

diff --git a/paper_trading.html b/paper_trading.html
@@ -3,7 +3,7 @@
 <head>
     <meta charset="utf-8">
     <meta name="viewport" content="width=device-width, initial-scale=1.0">
-    <title>Paper Trading v8.5 — 2026-10-15</title>
+    <title>Paper Trading v8.5 — 2026-10-16</title>
     <meta name="description" content="TW Stocker v8.5 Paper Trading 實時績效追蹤">
     <script src="https://cdn.jsdelivr.net/npm/chart.js@4"></script>
     <style>
@@ -92,7 +92,7 @@
     <h1>📈 Paper Trading v8.5</h1>
     <p class="subtitle">
         <span class="badge badge-live">● LIVE</span>
-        起始日 2026-04-22 | 更新 2026-10-15 | 初始資金 200,000 | 保留本金 10%，其餘投入
+        起始日 2026-04-22 | 更新 2026-10-16 | 初始資金 200,000 | 保留本金 10%，其餘投入
     </p>
 
     <div class="metrics">
@@ -369,10 +369,10 @@ const ctx = document.getElementById('equityChart').getContext('2d');
 new Chart(ctx, {
     type: 'line',
     data: {
-        labels: ["2026-04-22", "2026-04-23", "2026-04-24", "2026-04-27", "2026-04-29", "2026-04-30", "2026-05-01", "2026-05-04", "2026-05-05", "2026-05-06", "2026-05-07", "2026-05-08", "2026-05-11", "2026-05-12", "2026-05-13", "2026-05-14", "2026-05-15", "2026-05-18", "2026-05-19", "2026-05-20", "2026-05-21", "2026-05-22", "2026-05-25", "2026-05-26", "2026-05-27", "2026-05-28", "2026-05-29", "2026-06-01", "2026-06-02", "2026-06-03", "2026-06-04", "2026-06-05", "2026-06-08", "2026-06-09", "2026-06-10", "2026-06-11", "2026-06-12", "2026-06-15", "2026-06-16", "2026-06-17", "2026-06-18", "2026-06-19", "2026-06-22", "2026-06-23", "2026-06-24", "2026-06-25", "2026-06-26", "2026-06-29", "2026-06-30", "2026-07-01", "2026-07-02", "2026-07-03", "2026-07-06", "2026-07-07", "2026-07-08", "2026-07-09", "2026-07-10", "2026-07-13", "2026-07-14", "2026-07-15", "2026-07-16", "2026-07-17", "2026-07-20", "2026-07-21", "2026-07-22", "2026-07-23", "2026-07-24", "2026-07-27", "2026-07-28", "2026-07-29", "2026-07-30", "2026-07-31", "2026-08-03", "2026-08-04", "2026-08-05", "2026-08-06", "2026-08-07", "2026-08-10", "2026-08-11", "2026-08-12", "2026-08-13", "2026-08-14", "2026-08-17", "2026-08-18", "2026-08-19", "2026-08-20", "2026-08-21", "2026-08-24", "2026-08-25", "2026-08-26", "2026-08-27", "2026-08-28", "2026-08-31", "2026-09-01", "2026-09-02", "2026-09-03", "2026-09-04", "2026-09-07", "2026-09-08", "2026-09-09", "2026-09-10", "2026-09-11", "2026-09-14", "2026-09-15", "2026-09-16", "2026-09-17", "2026-09-18", "2026-09-21", "2026-09-22", "2026-09-23", "2026-09-24", "2026-09-25", "2026-09-28", "2026-09-29", "2026-09-30", "2026-10-01", "2026-10-02", "2026-10-05", "2026-10-06", "2026-10-07", "2026-10-08", "2026-10-09", "2026-10-12", "2026-10-13", "2026-10-14", "2026-10-15"],
+        labels: ["2026-04-22", "2026-04-23", "2026-04-24", "2026-04-27", "2026-04-29", "2026-04-30", "2026-05-01", "2026-05-04", "2026-05-05", "2026-05-06", "2026-05-07", "2026-05-08", "2026-05-11", "2026-05-12", "2026-05-13", "2026-05-14", "2026-05-15", "2026-05-18", "2026-05-19", "2026-05-20", "2026-05-21", "2026-05-22", "2026-05-25", "2026-05-26", "2026-05-27", "2026-05-28", "2026-05-29", "2026-06-01", "2026-06-02", "2026-06-03", "2026-06-04", "2026-06-05", "2026-06-08", "2026-06-09", "2026-06-10", "2026-06-11", "2026-06-12", "2026-06-15", "2026-06-16", "2026-06-17", "2026-06-18", "2026-06-19", "2026-06-22", "2026-06-23", "2026-06-24", "2026-06-25", "2026-06-26", "2026-06-29", "2026-06-30", "2026-07-01", "2026-07-02", "2026-07-03", "2026-07-06", "2026-07-07", "2026-07-08", "2026-07-09", "2026-07-10", "2026-07-13", "2026-07-14", "2026-07-15", "2026-07-16", "2026-07-17", "2026-07-20", "2026-07-21", "2026-07-22", "2026-07-23", "2026-07-24", "2026-07-27", "2026-07-28", "2026-07-29", "2026-07-30", "2026-07-31", "2026-08-03", "2026-08-04", "2026-08-05", "2026-08-06", "2026-08-07", "2026-08-10", "2026-08-11", "2026-08-12", "2026-08-13", "2026-08-14", "2026-08-17", "2026-08-18", "2026-08-19", "2026-08-20", "2026-08-21", "2026-08-24", "2026-08-25", "2026-08-26", "2026-08-27", "2026-08-28", "2026-08-31", "2026-09-01", "2026-09-02", "2026-09-03", "2026-09-04", "2026-09-07", "2026-09-08", "2026-09-09", "2026-09-10", "2026-09-11", "2026-09-14", "2026-09-15", "2026-09-16", "2026-09-17", "2026-09-18", "2026-09-21", "2026-09-22", "2026-09-23", "2026-09-24", "2026-09-25", "2026-09-28", "2026-09-29", "2026-09-30", "2026-10-01", "2026-10-02", "2026-10-05", "2026-10-06", "2026-10-07", "2026-10-08", "2026-10-09", "2026-10-12", "2026-10-13", "2026-10-14", "2026-10-15", "2026-10-16"],
         datasets: [{
             label: 'Paper Trading 權益',
-            data: [198952.0, 198438.0, 203189.0, 204266.0, 202703.0, 207261.0, 207261.0, 209021.0, 209122.0, 210225.0, 213939.0, 211340.0, 217936.0, 218528.0, 216129.0, 216592.0, 213700.0, 216976.0, 214891.0, 214560.0, 221605.0, 224953.0, 228551.0, 229268.0, 233947.0, 232983.0, 234110.0, 237186.0, 237898.0, 237958.0, 237613.0, 237223.0, 236533.0, 237748.0, 236788.0, 236578.0, 236863.0, 237733.0, 238003.0, 237703.0, 237493.0, 237493.0, 237645.0, 237645.0, 237645.0, 237645.0, 237645.0, 237645.0, 237645.0, 237645.0, 237645.0, 237645.0, 237645.0, 237645.0, 237645.0, 237645.0, 239822.0, 234492.0, 234312.0, 246822.0, 237846.0, 223562.0, 215192.0, 220651.0, 226371.0, 222206.0, 214222.0, 217885.0, 207788.0, 200844.0, 195950.0, 194460.0, 194460.0, 194460.0, 194460.0, 194460.0, 194460.0, 194460.0, 194460.0, 194460.0, 194460.0, 194460.0, 194460.0, 194460.0, 194460.0, 194460.0, 194460.0, 194460.0, 194460.0, 194460.0, 194460.0, 194460.0, 194460.0, 194460.0, 194460.0, 194460.0, 194460.0, 194460.0, 194460.0, 194460.0, 194460.0, 194460.0, 194460.0, 194460.0, 194460.0, 194460.0, 194460.0, 194460.0, 194460.0, 194460.0, 194460.0, 194460.0, 194460.0, 194460.0, 194460.0, 194460.0, 194460.0, 194460.0, 194460.0, 194460.0, 194460.0, 194460.0, 194460.0, 194460.0, 194460.0, 194460.0],
+            data: [198952.0, 198438.0, 203189.0, 204266.0, 202703.0, 207261.0, 207261.0, 209021.0, 209122.0, 210225.0, 213939.0, 211340.0, 217936.0, 218528.0, 216129.0, 216592.0, 213700.0, 216976.0, 214891.0, 214560.0, 221605.0, 224953.0, 228551.0, 229268.0, 233947.0, 232983.0, 234110.0, 237186.0, 237898.0, 237958.0, 237613.0, 237223.0, 236533.0, 237748.0, 236788.0, 236578.0, 236863.0, 237733.0, 238003.0, 237703.0, 237493.0, 237493.0, 237645.0, 237645.0, 237645.0, 237645.0, 237645.0, 237645.0, 237645.0, 237645.0, 237645.0, 237645.0, 237645.0, 237645.0, 237645.0, 237645.0, 239822.0, 234492.0, 234312.0, 246822.0, 237846.0, 223562.0, 215192.0, 220651.0, 226371.0, 222206.0, 214222.0, 217885.0, 207788.0, 200844.0, 195950.0, 194460.0, 194460.0, 194460.0, 194460.0, 194460.0, 194460.0, 194460.0, 194460.0, 194460.0, 194460.0, 194460.0, 194460.0, 194460.0, 194460.0, 194460.0, 194460.0, 194460.0, 194460.0, 194460.0, 194460.0, 194460.0, 194460.0, 194460.0, 194460.0, 194460.0, 194460.0, 194460.0, 194460.0, 194460.0, 194460.0, 194460.0, 194460.0, 194460.0, 194460.0, 194460.0, 194460.0, 194460.0, 194460.0, 194460.0, 194460.0, 194460.0, 194460.0, 194460.0, 194460.0, 194460.0, 194460.0, 194460.0, 194460.0, 194460.0, 194460.0, 194460.0, 194460.0, 194460.0, 194460.0, 194460.0, 194460.0],
             borderColor: '#60a5fa',
             backgroundColor: 'rgba(96, 165, 250, 0.1)',
             fill: true,
@@ -381,7 +381,7 @@ new Chart(ctx, {
             borderWidth: 2,
         }, {
             label: '初始資金',
-            data: [200000, 200000, 200000, 200000, 200000, 200000, 200000, 200000, 200000, 200000, 200000, 200000, 200000, 200000, 200000, 200000, 200000, 200000, 200000, 200000, 200000, 200000, 200000, 200000, 200000, 200000, 200000, 200000, 200000, 200000, 200000, 200000, 200000, 200000, 200000, 200000, 200000, 200000, 200000, 200000, 200000, 200000, 200000, 200000, 200000, 200000, 200000, 200000, 200000, 200000, 200000, 200000, 200000, 200000, 200000, 200000, 200000, 200000, 200000, 200000, 200000, 200000, 200000, 200000, 200000, 200000, 200000, 200000, 200000, 200000, 200000, 200000, 200000, 200000, 200000, 200000, 200000, 200000, 200000, 200000, 200000, 200000, 200000, 200000, 200000, 200000, 200000, 200000, 200000, 200000, 200000, 200000, 200000, 200000, 200000, 200000, 200000, 200000, 200000, 200000, 200000, 200000, 200000, 200000, 200000, 200000, 200000, 200000, 200000, 200000, 200000, 200000, 200000, 200000, 200000, 200000, 200000, 200000, 200000, 200000, 200000, 200000, 200000, 200000, 200000, 200000],
+            data: [200000, 200000, 200000, 200000, 200000, 200000, 200000, 200000, 200000, 200000, 200000, 200000, 200000, 200000, 200000, 200000, 200000, 200000, 200000, 200000, 200000, 200000, 200000, 200000, 200000, 200000, 200000, 200000, 200000, 200000, 200000, 200000, 200000, 200000, 200000, 200000, 200000, 200000, 200000, 200000, 200000, 200000, 200000, 200000, 200000, 200000, 200000, 200000, 200000, 200000, 200000, 200000, 200000, 200000, 200000, 200000, 200000, 200000, 200000, 200000, 200000, 200000, 200000, 200000, 200000, 200000, 200000, 200000, 200000, 200000, 200000, 200000, 200000, 200000, 200000, 200000, 200000, 200000, 200000, 200000, 200000, 200000, 200000, 200000, 200000, 200000, 200000, 200000, 200000, 200000, 200000, 200000, 200000, 200000, 200000, 200000, 200000, 200000, 200000, 200000, 200000, 200000, 200000, 200000, 200000, 200000, 200000, 200000, 200000, 200000, 200000, 200000, 200000, 200000, 200000, 200000, 200000, 200000, 200000, 200000, 200000, 200000, 200000, 200000, 200000, 200000, 200000],
             borderColor: '#475569',
             borderDash: [5, 5],
             fill: false,
